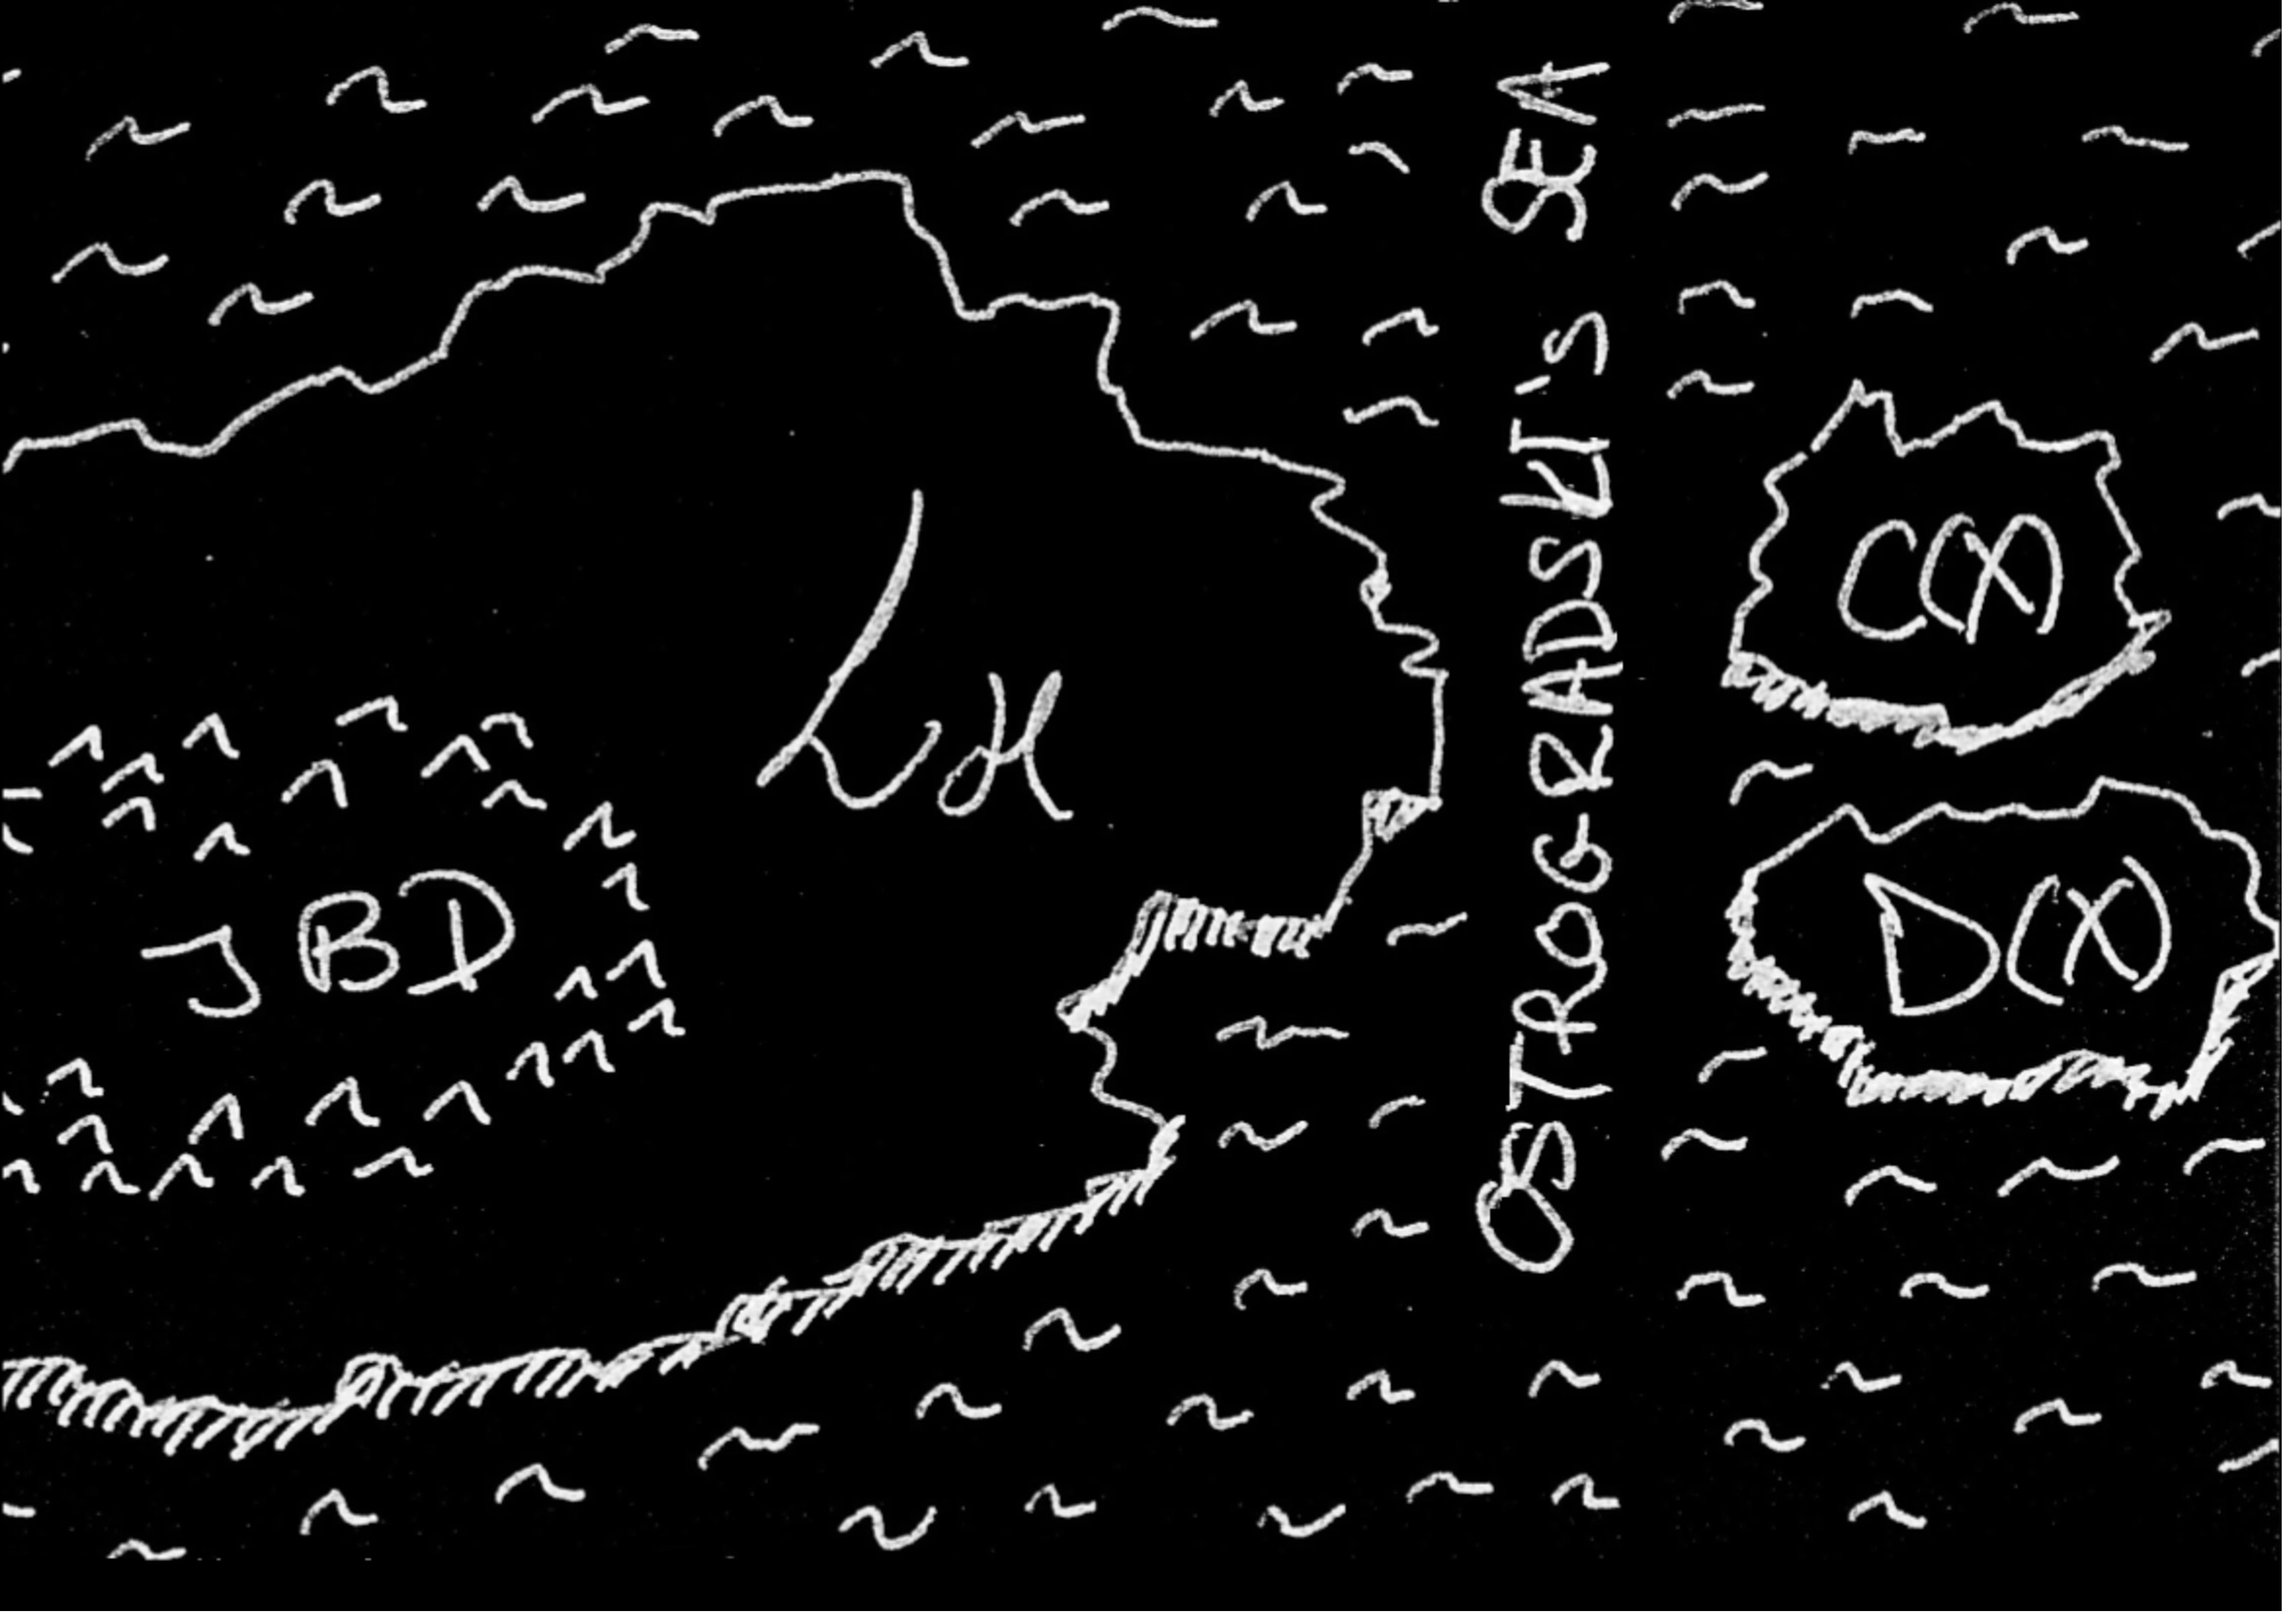
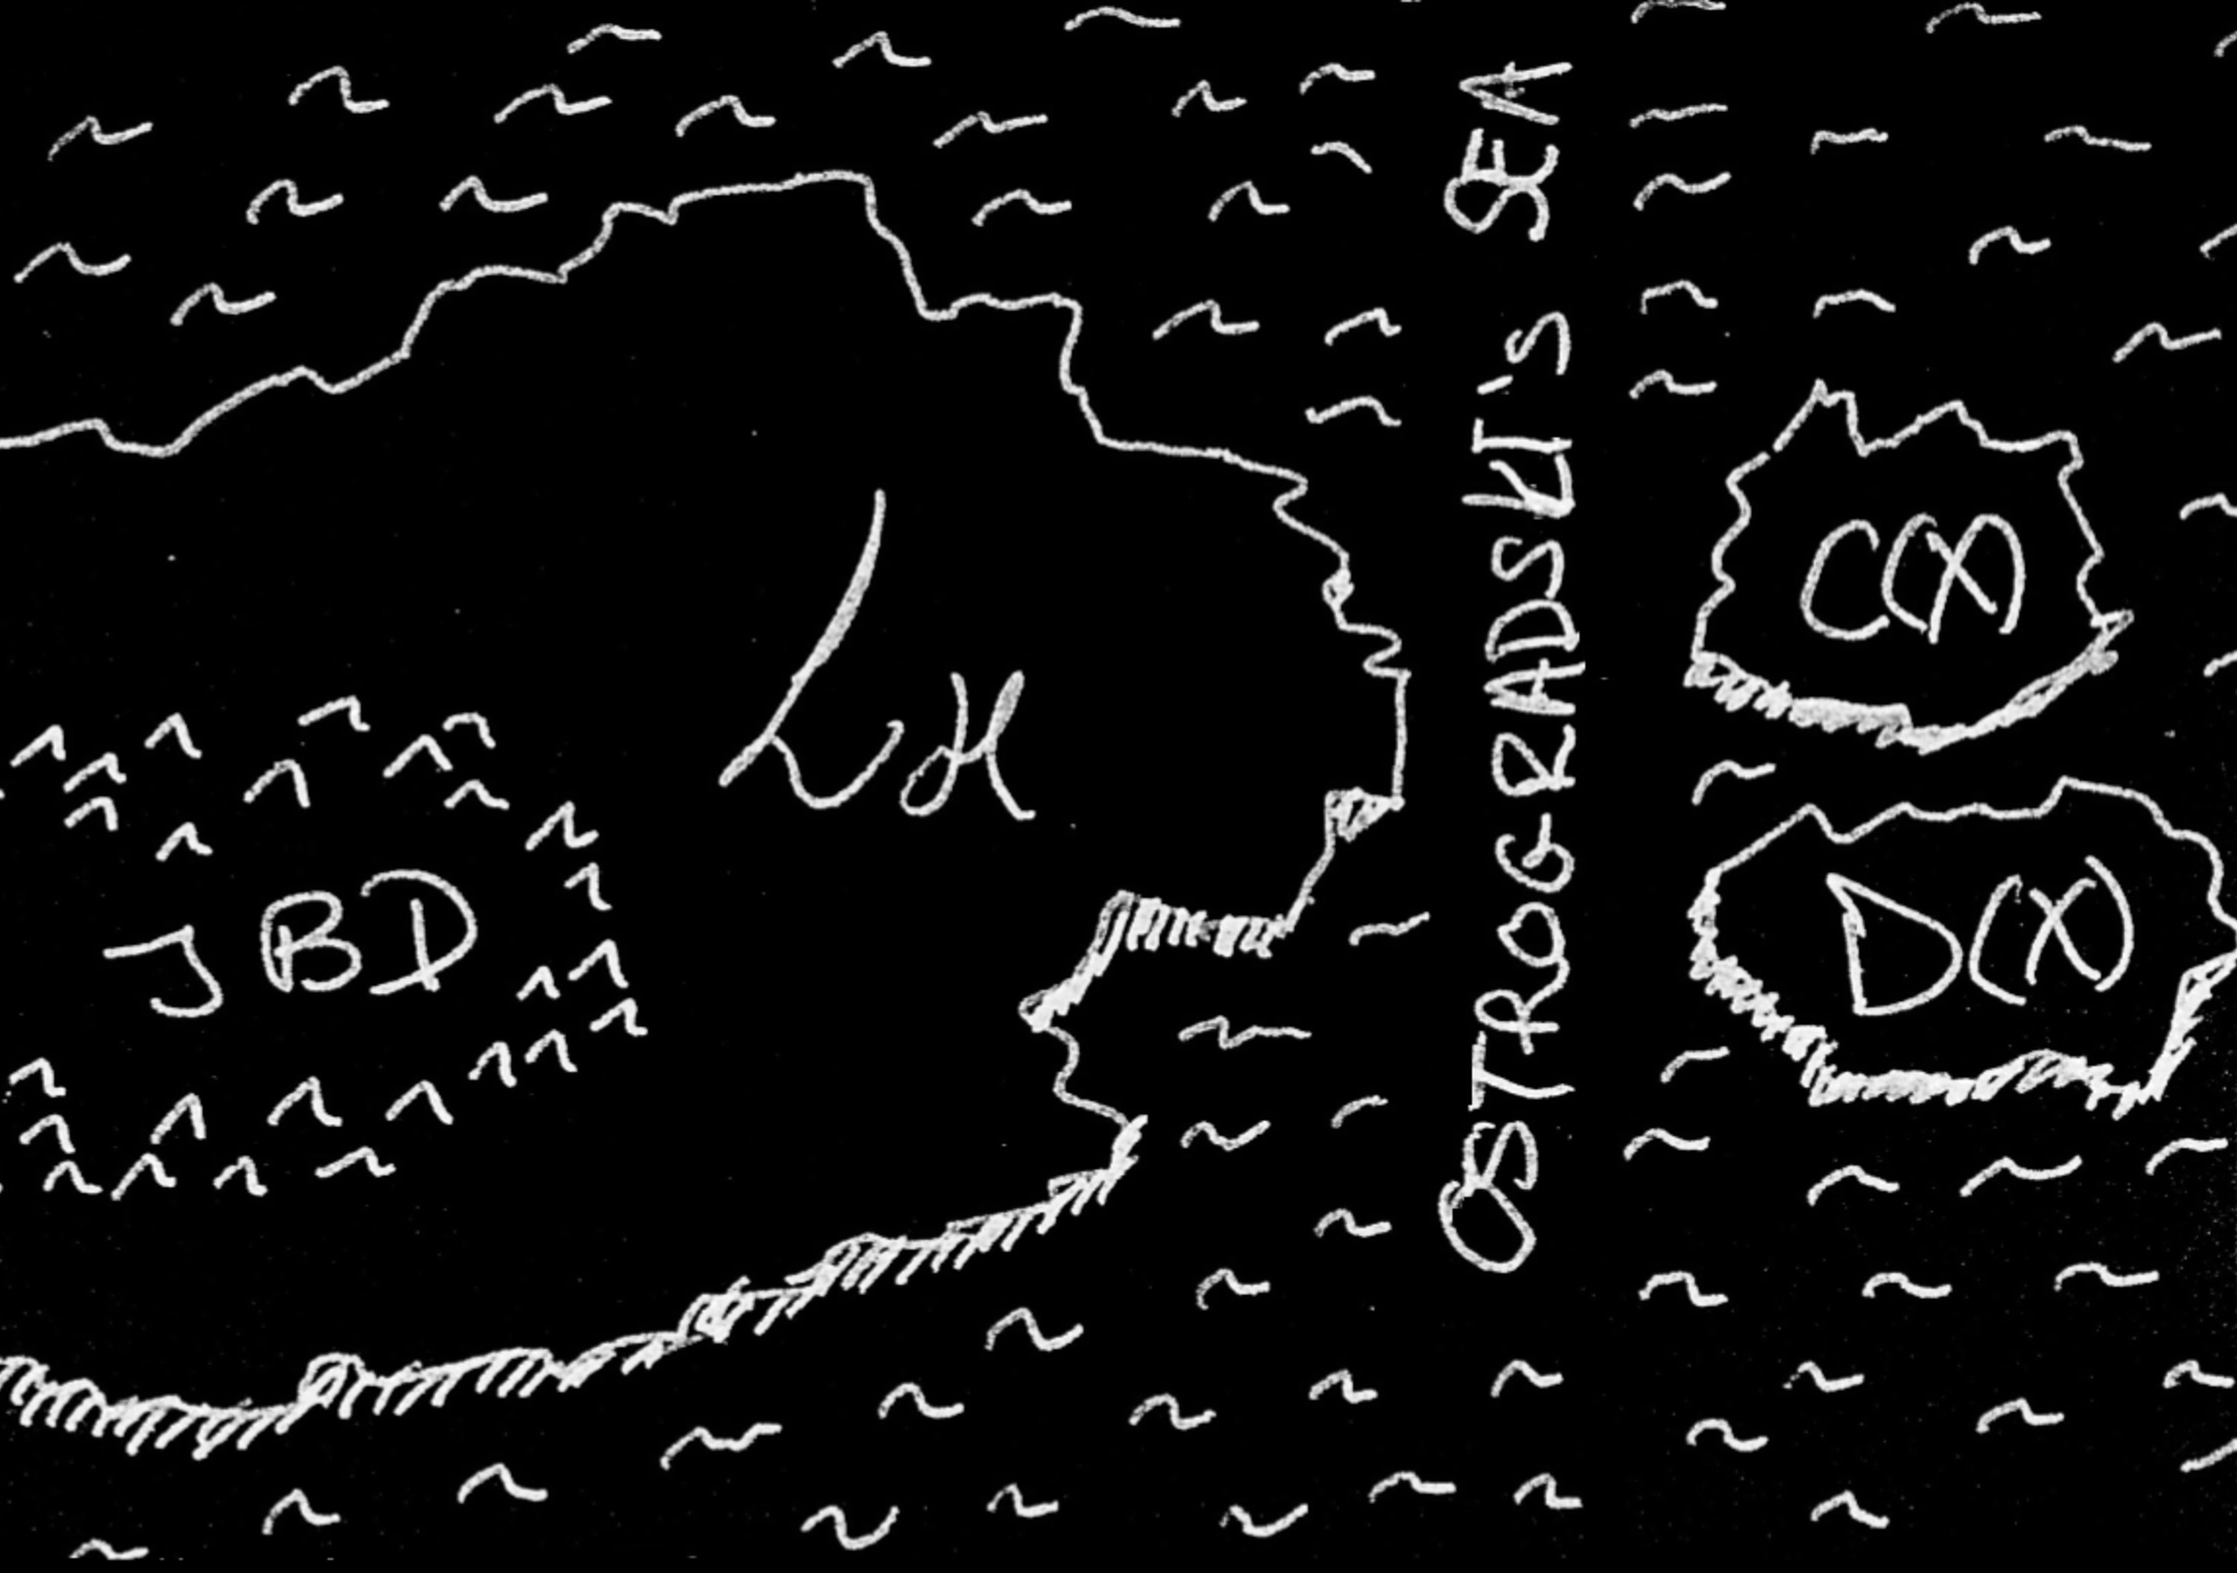
crop and resize beyond Horndeski map

diff --git a/research.html b/research.html
@@ -63,7 +63,7 @@ For an overview you can take a look at my scientific publications:
 and
 <a href="http://miguelzuma.github.io/research.html#voids"> cosmic voids</a>.
 
-<h4> <a name="pbh">Primordial black holes, gravitational lensing and supernovae</a> </h4>
+<h4> <a name="pbh">Primordial Black Holes, Gravitational Lensing and Supernovae</a> </h4>
 
 <p><img src="http://miguelzuma.github.io/imgs/no_LIGO_MACHO.jpg" alt="No LIGO MACHO" style="float: right" width= 300 HSPACE=10> Black holes of primordial origin have re-emerged as a model to explain both dark matter and the gravitational wave events observed by LIGO. My work explored the effect of compact dark matter on the gravitational magnification of type Ia supernovae. The lack of signatures from compact objects in current data allowed us to put stringent bounds on the abundance of compact objects, indicating that primordial black holes with masses in the range of LIGO events can not be the dominant dark matter component.
 <p>
@@ -75,7 +75,7 @@ and
 
 
 
-<h4> <a name="gws">Gravitational waves</a> </h4>
+<h4> <a name="gws">Gravitational Waves</a> </h4>
 
 <p><img src="http://miguelzuma.github.io/imgs/DE_after_GW170817.jpg" alt="DE after GW170817" style="float: right" width= 215 HSPACE=10> The recent detection of gravitational waves (GW) represents a great new opportunity for the study of gravity and cosmology. My work contributed to understand GW propagation in theories beyond Einstein Gravity and anticipate the GW speed as the most powerful tool to confirm or discard a large classes of theories. The detection of GW170817, the first neutron-star merger, allowed a very precise measurement of the GW speed that spectacularly ruled out entire classes of gravity theories and dark energy models.
 <p>
@@ -87,7 +87,7 @@ and
 <p> &#8614;  <a href="https://www.youtube.com/watch?v=f47WCOd_Iqo" target="_blank"> Talk on GWs and Dark Energy</a> at DARKMOD conference, IPhT Saclay (2017).
 <!---and <a href="https://www.youtube.com/watch?v=6YFPtA46zMI" target="_blank"> Nordita </a> (Jul '17)-->
 
-<h4> <a name="tests">Dark energy and cosmology</a> </h4>
+<h4> <a name="tests">Dark Energy and Cosmology</a> </h4>
 
 <p><img src="http://miguelzuma.github.io/imgs/galileon_H0_marked.png" alt="Galileon_nu" style="float: right" width= 230 HSPACE=10>  Understanding dark energy, the mysterious source of the universe's acceleration, is a major goal of observational and theoretical cosmology. My work has focused on ways to test different dark energy physics using cosmological and other data. I am the main developer of the <a href="http://www.hiclass-code.net" target="_blank"> hi_class code</a>, an accurate, fast and flexible code to obtain cosmological predictions in general dark energy models. I have applied hi_class (and similar codes) to test gravity and scenarios for cosmic acceleration.
 Some of these models have interesting features: for instance, the covariant Galileon is able to reconcile the CMB and distance-ladder measurement of H0.
@@ -106,9 +106,9 @@ Research in non-standard cosmologies is also useful to revise model-dependent as
 </ul>
 <p> &#8614; <a href="http://iactalks.iac.es/talks/view/1081" target="_blank"> Lecture on alternative theories of gravity</a> at the Cosmology School in the Canary Islands.
 
-<h4> <a name="theory">Gravitational Theories</a> </h4>
+<h4> <a name="theory">Gravity Theories</a> </h4>
 
-<p><img src="http://miguelzuma.github.io/imgs/beyond_Horndeski.jpg" alt="Islands of stability Beyond Horndeski" style="float: right" width= 215 HSPACE=10> Important insights into dark energy are often gained from theoretical considerations, which may reveal new possibilities or obstructions in known models. Redefinitions of the fundamental fields are a useful tools to examine extended theories of gravity. By using generalized field redefinitions, I presented the first examples of viable theories beyond Horndeski, previously thought to be the most general ghost-free theory of its class. Earlier I had used a more restricted field redefinition to show the equivalence between disformally coupled theories and DBI Galileons, generalizing the notion of the Einstein and Jordan frames.
+<p><img src="http://miguelzuma.github.io/imgs/beyond_Horndeski.jpg" alt="Islands of stability Beyond Horndeski" style="float: right" width= 300 HSPACE=15> Important insights into dark energy are often gained from theoretical considerations, which may reveal new possibilities or obstructions in known models. Redefinitions of the fundamental fields are a useful tools to examine extended theories of gravity. By using generalized field redefinitions, I presented the first examples of viable theories beyond Horndeski, previously thought to be the most general ghost-free theory of its class. Earlier I had used a more restricted field redefinition to show the equivalence between disformally coupled theories and DBI Galileons, generalizing the notion of the Einstein and Jordan frames.
 <p>
 <b><i>Selected publications:</i></b>
 <ul>
